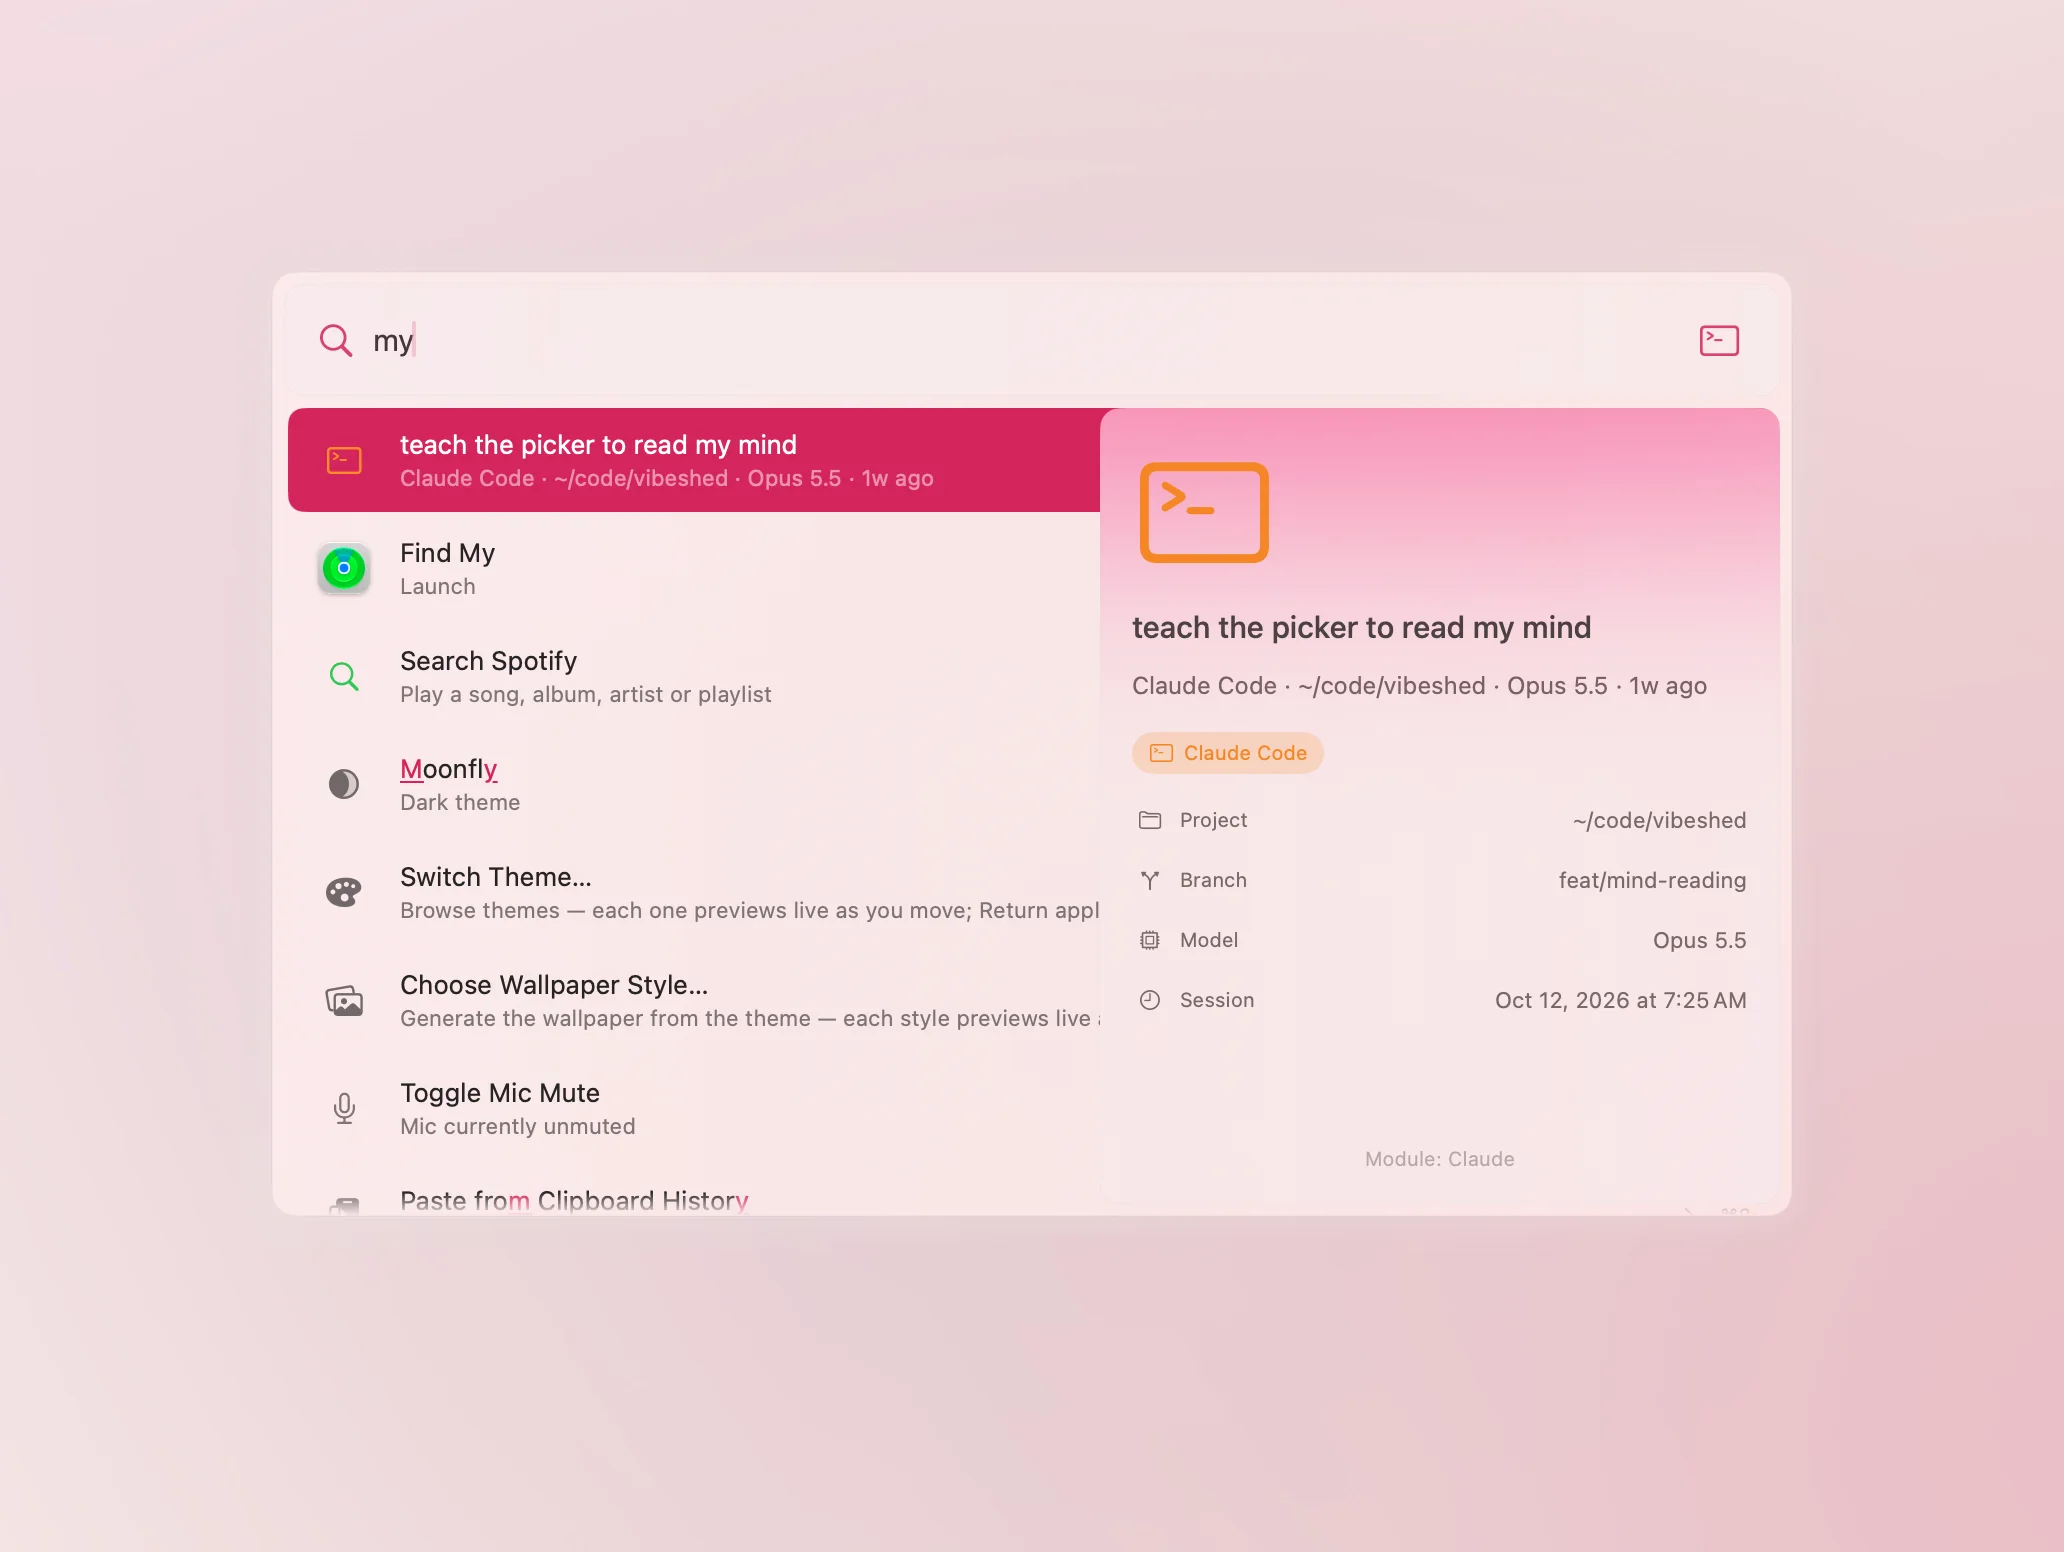
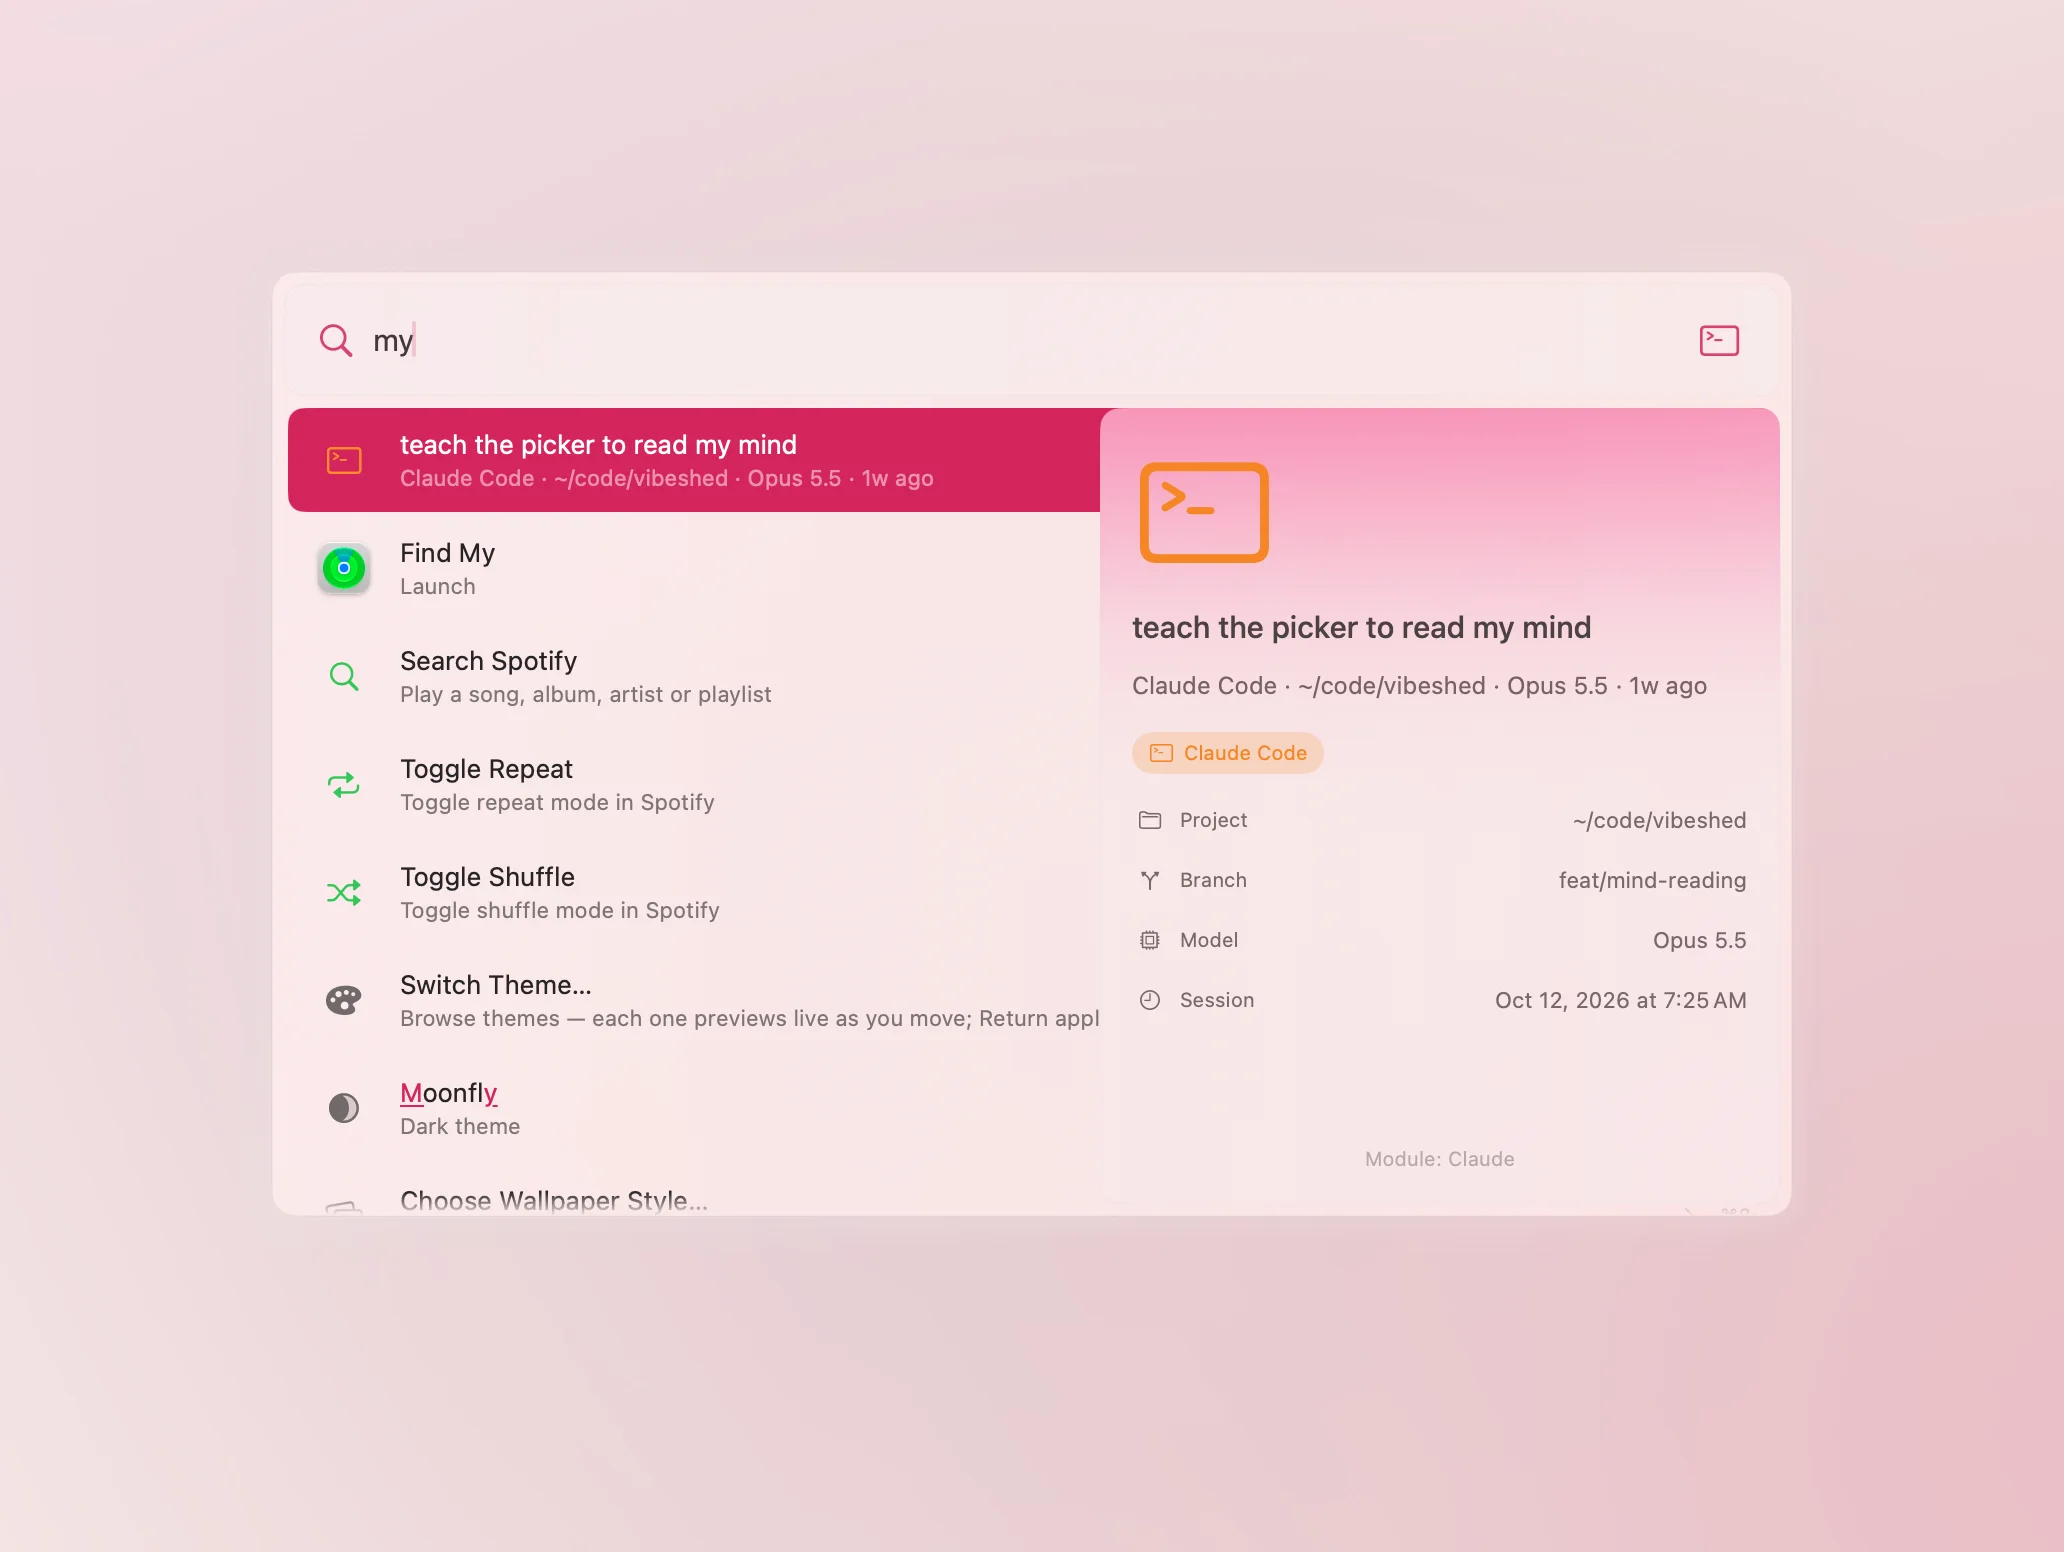
feat(site): a just-opened picker, without window commands
The picker stills gain a third state, launch: the picker as it opens, its
list the things used most (the playing track, a Claude Code session, a
project, pull requests, themes, a Safari tab) instead of the window
commands the video rehearsals left in the usage history. The satis and my
shots are reshot on the same seeded history, so window commands drop
below the track, the themes and Spotify. ASSETS.md describes the three.

Changed region(s): [[0.155, 0.6186, 0.5271, 0.8041], [0.155, 0.4948, 0.3411, 0.5258], [0.155, 0.5567, 0.3101, 0.5876]]

diff --git a/docs/ASSETS.md b/docs/ASSETS.md
@@ -62,25 +62,35 @@ again.”
 
 ## `img/picker/`: the picker in four themes
 
-The picker at 2× with one of two demo queries, in the site's own palette
-(`vibeshed-glow`, the sunset colors) and three built-in themes:
-`tokyo-night`, `catppuccin-latte` and `mac-os-9`. Pick one query for the
-whole page.
+The picker at 2× in three states, in the site's own palette (`vibeshed-glow`,
+the sunset colors) and three built-in themes: `tokyo-night`,
+`catppuccin-latte` and `mac-os-9`. Pick one state for the whole page;
+`launch` shows the widest range.
 
-- `music-<theme>`: `satis`, Spotify playing “(I Can’t Get No) Satisfaction”,
-  album art and a Now playing pill in the preview. It answers the headline.
-- `session-<theme>`: `my`, the Claude Code session “teach the picker to read
-  my mind”, with project, branch `feat/mind-reading` and model Opus 5.5 in the
-  preview.
+- `launch-<theme>`: the picker as it opens, nothing typed. The list is what
+  you reach for most: “(I Can’t Get No) Satisfaction” playing in Spotify (album
+  art and a Now playing pill in the preview), the Claude Code session, a
+  project file in Zed, Search Pull Requests, Switch Theme, a Safari tab and
+  Spotify's controls.
+- `music-<theme>`: `satis` typed, the same track first, then Switch Theme,
+  Search Spotify and Switch Font; the lower rows are window commands. It
+  answers the headline.
+- `session-<theme>`: `my` typed, the Claude Code session “teach the picker to
+  read my mind”, with project, branch `feat/mind-reading` and model Opus 5.5 in
+  the preview.
+
+The lists come from a seeded usage history
+(`showreel/fixtures/site-stills-usage.json` on `feat/showreel`), so window
+commands the video rehearsals ran don't crowd them.
 
 | Files | Size | What |
 | --- | --- | --- |
 | `<query>-<theme>.webp` | 1584×1072 | the picker window alone, its shadow on transparency; show at 792 px wide |
 | `<query>-<theme>-desktop.webp` | 2064×1552 | the picker on that theme's generated wallpaper, 120 pt around it; show at 1032 px wide |
 
-Alt text, for example: “Vibeshed's picker in Tokyo Night: the query ‘satis’
-finds (I Can’t Get No) Satisfaction playing in Spotify, with its album art in
-the preview.”
+Alt text, for example: “Vibeshed's picker in Tokyo Night, just opened: (I Can’t
+Get No) Satisfaction playing in Spotify with its album art, then a Claude Code
+session, a project, pull requests, themes and a Safari tab.”
 
 ## `img/themes/`: the theme montage
 
